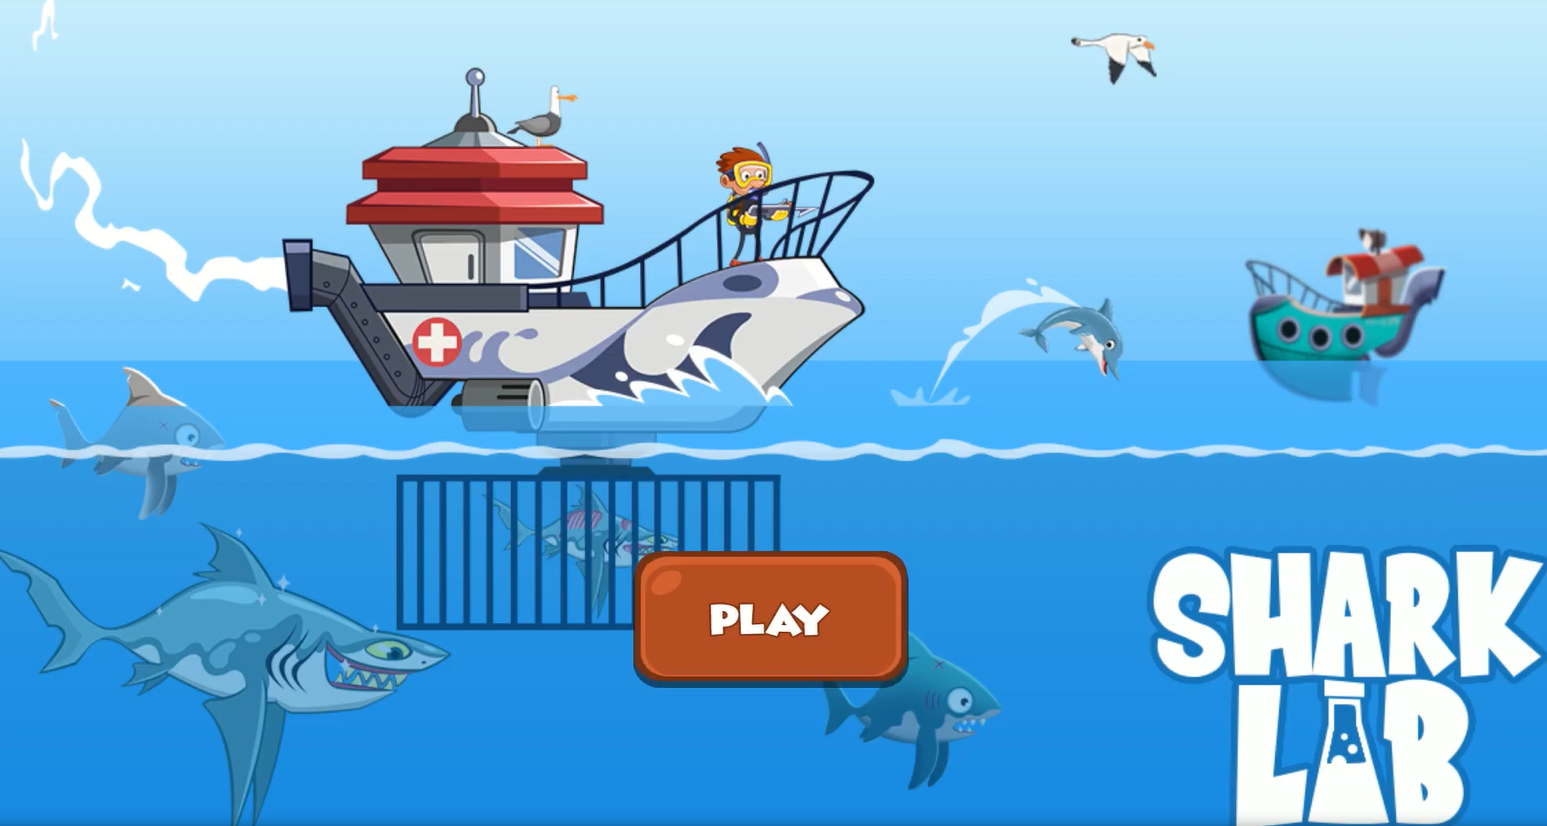
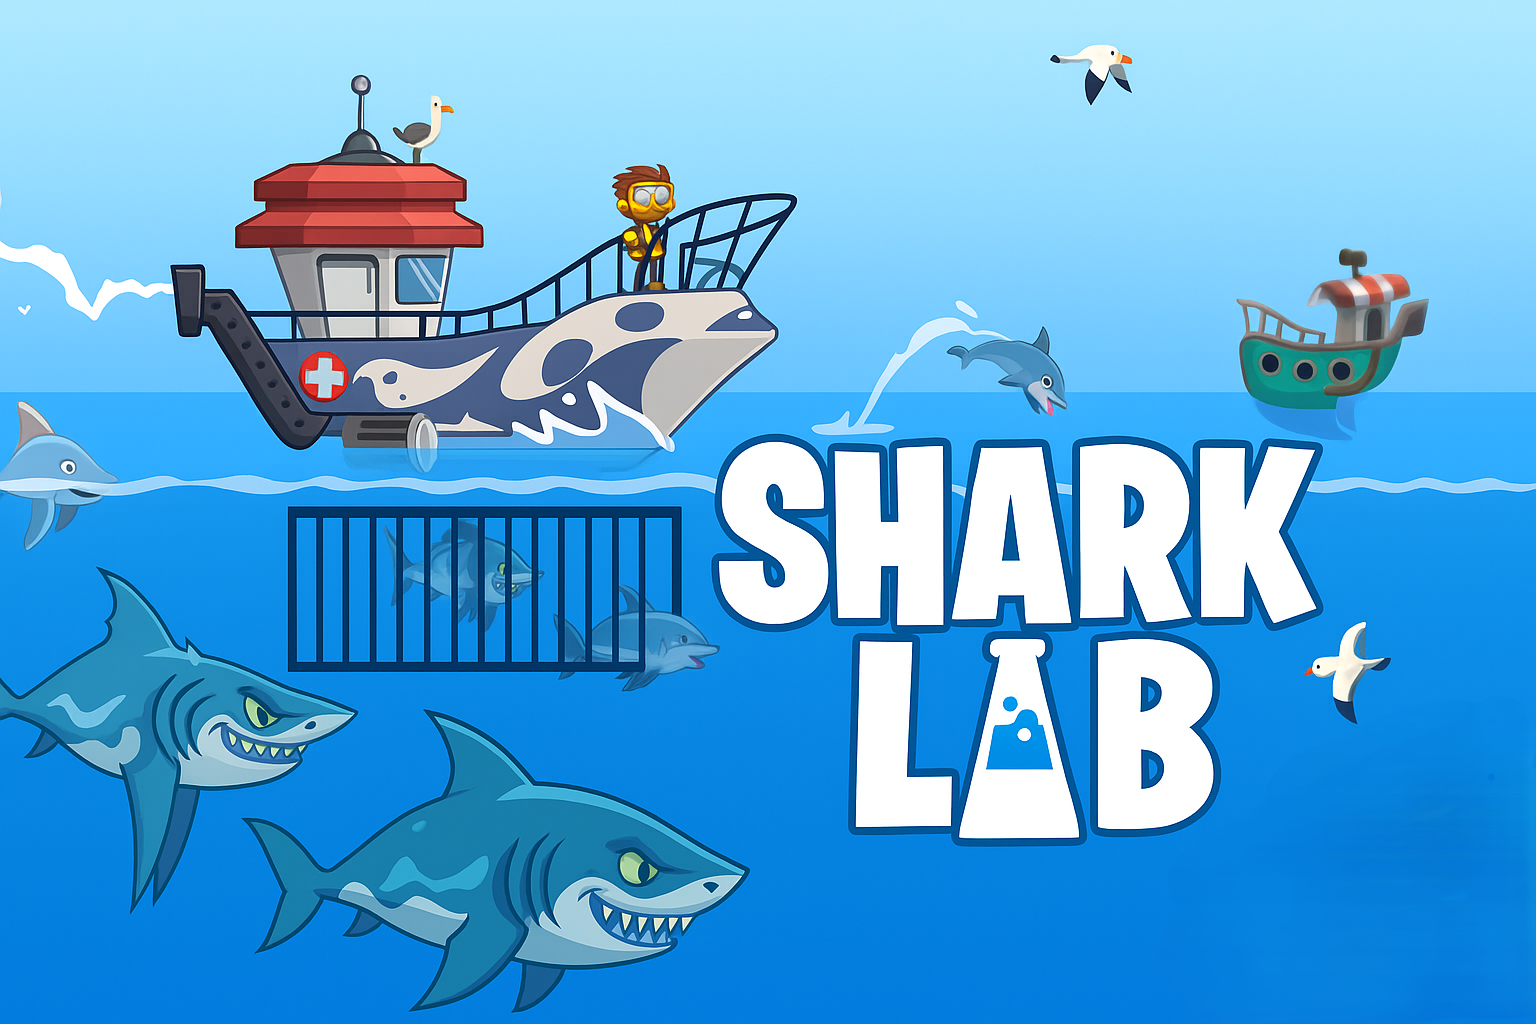
Improving posters with gen AI lol
Replaced several project and screenshot images with updated versions. Adjusted the order of images in projects.html and corrected a project description for Monster Forest 3D to use 'Action-idle-arcade' for consistency.

diff --git a/projects.html b/projects.html
@@ -1200,9 +1200,9 @@ This project is a proof of concept (POC) where we explore whether <strong>psycho
           <br><br>
           Besides programming the gameplay, UI and backends, I have also worked on Ad integration and monetization.
           <br><br>
+          <img src="assets/img/screenshots/sl4.jpg" style = "height: 80px; width: 145px;">
           <img src="assets/img/screenshots/sl1.png" style = "height: 80px; width: 145px;">
           <img src="assets/img/screenshots/sl3.jpg" style = "height: 80px; width: 145px;">
-          <img src="assets/img/screenshots/sl4.jpg" style = "height: 80px; width: 145px;">
           <img src="assets/img/screenshots/s6.jpg" style = "height: 80px; width: 145px;">
           <br><br>
           <strong>Genre:</strong> Topdown, Survival
@@ -1277,7 +1277,7 @@ This project is a proof of concept (POC) where we explore whether <strong>psycho
                 <p><a class="projectheader" href="https://www.youtube.com/watch?v=YfRX3jugIdE" target="_blank" style="font-weight: bold;">Monster Forest 3D</a> </p>
                 <div class="description" style="color: white;">
                   <ul>
-                    Action idle arcade game featuring procedurally generated levels, base building, trading, combat, pet companionship, etc.
+                    Action-idle-arcade game featuring procedurally generated levels, base building, trading, combat, pet companionship, etc.
                     <br><br>
                     <img src="assets/img/screenshots/mf1.png" style = "height: 140px; width: 80px;">
                     <img src="assets/img/screenshots/mf2.png" style = "height: 140px; width: 80px;">
